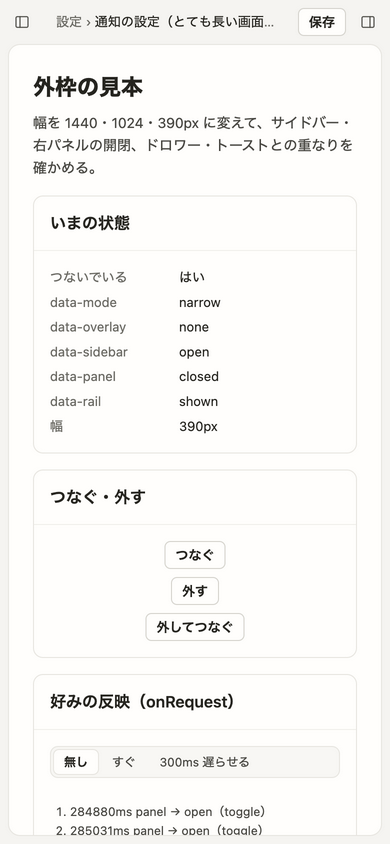
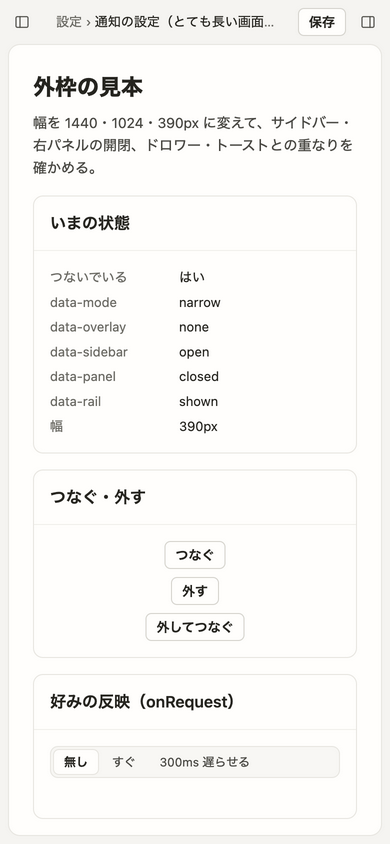
fix: shell Tab order, contenteditable, narrow text button hit area
Codex pre-merge review fixes:
- tabbablesIn: read the tabindex attribute instead of the tabIndex
  property (contenteditable without tabindex reports -1 but is
  tabbable), include editing hosts, and order like browsers (positive
  tabindex ascending first, then 0/unset in document order)
- shell.css: in narrow, tsk-btn in the top bar and drawer head keep
  their look but get a 44px hit area (::before, within the button's
  width) and min-width 44px
- README: install 0.2.0 for the shell; drop the 28px limitation
- fakedom: contenteditable focus like browsers (tabIndex -1)
- example: editor-last and positive-tabindex panel variants

Changed region(s): [[0.1231, 0.955, 0.6769, 1.0]]

diff --git a/core/ui/shell.js b/core/ui/shell.js
@@ -85,13 +85,52 @@ function isShown(el, win) {
   return true;
 }
 
-/** dialog の中で、実際に Tab で移れる要素（drawer.js の focusablesIn から、負の tabIndex・inert の中・無効・見えないものを除く） */
+/** tabindex 属性の値（整数として読めなければ null。読めないときブラウザは指定が無いものとして扱う） */
+function tabindexAttr(el) {
+  const raw = el.getAttribute('tabindex');
+  if (raw === null || !/^\s*[+-]?\d+\s*$/.test(raw)) return null;
+  return parseInt(raw, 10);
+}
+
+/** 編集できる領域の入口（contenteditable の要素。親も編集できるなら入口ではない） */
+function isEditingHost(el) {
+  if (typeof el.isContentEditable === 'boolean') {
+    const parent = el.parentNode;
+    return el.isContentEditable && !(parent && parent.isContentEditable === true);
+  }
+  const v = el.getAttribute('contenteditable');
+  return v !== null && ['', 'true', 'plaintext-only'].includes(v.trim().toLowerCase());
+}
+
+/**
+ * dialog の中で、実際に Tab で移れる要素を Tab の順に並べる。
+ * 候補は drawer.js の focusablesIn と、編集できる領域の入口（contenteditable）。そこから、tabindex 属性が負のもの・inert の中・
+ * 無効（無効な fieldset の中を含む）・見えないものを除く（tabIndex のプロパティは見ない。tabindex の無い編集欄は -1 を返すため）。
+ * 並びはブラウザと同じ: tabindex が正のものを値の小さい順（同じ値は文書の順）に先、そのあとに 0 と指定なしを文書の順
+ */
 function tabbablesIn(dialog, win) {
-  return focusablesIn(dialog).filter((el) =>
-    !(typeof el.tabIndex === 'number' && el.tabIndex < 0)
-    && !insideInert(el)
-    && !(typeof el.matches === 'function' && el.matches(':disabled'))
-    && isShown(el, win));
+  const known = new Set(focusablesIn(dialog));
+  const found = [];
+  const walk = (node) => {
+    for (const child of Array.from(node.children || [])) {
+      if (child.hasAttribute && (child.hasAttribute('hidden') || child.getAttribute('aria-hidden') === 'true')) continue;
+      if (known.has(child) || isEditingHost(child)) found.push(child);
+      walk(child);
+    }
+  };
+  walk(dialog);
+  const usable = found.filter((el) => {
+    const ti = tabindexAttr(el);
+    return !(ti !== null && ti < 0)
+      && !insideInert(el)
+      && !(typeof el.matches === 'function' && el.matches(':disabled'))
+      && isShown(el, win);
+  });
+  const order = (el) => {
+    const ti = tabindexAttr(el);
+    return ti !== null && ti > 0 ? ti : Infinity;
+  };
+  return usable.map((el, i) => ({ el, i, o: order(el) })).sort((a, b) => a.o - b.o || a.i - b.i).map((x) => x.el);
 }
 
 /**

diff --git a/core/examples/shell.html b/core/examples/shell.html
@@ -343,6 +343,22 @@
                     >
                       無効な欄だけ
                     </button>
+                    <button
+                      class="tsk-seg__btn"
+                      type="button"
+                      data-variant="editable-last"
+                      aria-pressed="false"
+                    >
+                      末尾が編集欄
+                    </button>
+                    <button
+                      class="tsk-seg__btn"
+                      type="button"
+                      data-variant="positive-tabindex"
+                      aria-pressed="false"
+                    >
+                      正の tabindex
+                    </button>
                   </div>
                 </div>
               </section>
@@ -389,6 +405,20 @@
           panel.append(
             h('div', { class: 'demo-panel-head' }, h('h2', {}, '詳細（操作できるものが無い）')),
             h('p', {}, '中に移れる要素が無い。Tab はこの面に留まる。'),
+          );
+          return;
+        }
+        if (variant === 'positive-tabindex') {
+          // 文書の順は A・B（tabindex=1）・C。Tab の順は B → A → C（ブラウザと同じ）
+          panel.append(
+            h('div', { class: 'demo-panel-head' }, h('h2', {}, '詳細（正の tabindex）')),
+            h(
+              'div',
+              { class: 'demo-row' },
+              smallBtn('A', { id: 'ti-a' }),
+              smallBtn('B（tabindex=1）', { id: 'ti-b', tabindex: '1' }),
+              smallBtn('C', { id: 'ti-c' }),
+            ),
           );
           return;
         }
@@ -440,6 +470,19 @@
         );
         if (variant === 'hide-ends')
           panel.append(smallBtn('隠れた最後', { id: 'hidden-last', style: 'visibility:hidden' }));
+        if (variant === 'editable-last')
+          panel.append(
+            h(
+              'div',
+              { class: 'demo-panel-sec' },
+              h('h3', {}, 'メモ（tabindex の無い編集欄）'),
+              h(
+                'div',
+                { class: 'tsk-input', id: 'editor', contenteditable: '', 'aria-label': 'メモ' },
+                'ここに書ける',
+              ),
+            ),
+          );
       }
 
       /* ---- つなぐ・外す ---- */

diff --git a/core/ui/shell.css b/core/ui/shell.css
@@ -268,6 +268,12 @@
   .tsk-shell__side-head .tsk-iconbtn { width: 44px; height: 44px; }
   .tsk-shell__topbar .tsk-iconbtn:focus-visible,
   .tsk-shell__side-head .tsk-iconbtn:focus-visible { outline-offset: -2px; }
+  /* 文字のボタン（tsk-btn）は見た目の高さのまま、押せる範囲だけを上下に広げて 44px にする（幅も 44px 以上）。
+     広げる範囲は上の行（44px）の中に収まる。左右は枠の 1px まで（ボタンの外へは広げないので隣のボタンと重ならない） */
+  .tsk-shell__topbar .tsk-btn,
+  .tsk-shell__side-head .tsk-btn { position: relative; min-width: 44px; }
+  .tsk-shell__topbar .tsk-btn::before,
+  .tsk-shell__side-head .tsk-btn::before { content: ""; position: absolute; top: 50%; right: -1px; left: -1px; height: 44px; transform: translateY(-50%); }
   .tsk-shell__body { padding: 0 var(--ui-space-2) var(--ui-space-2); }
   .tsk-shell__side {
     position: absolute;
